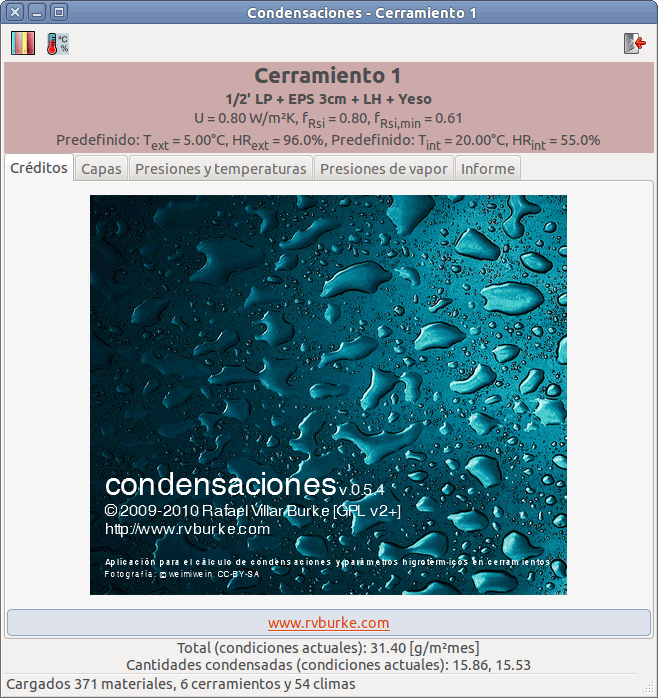
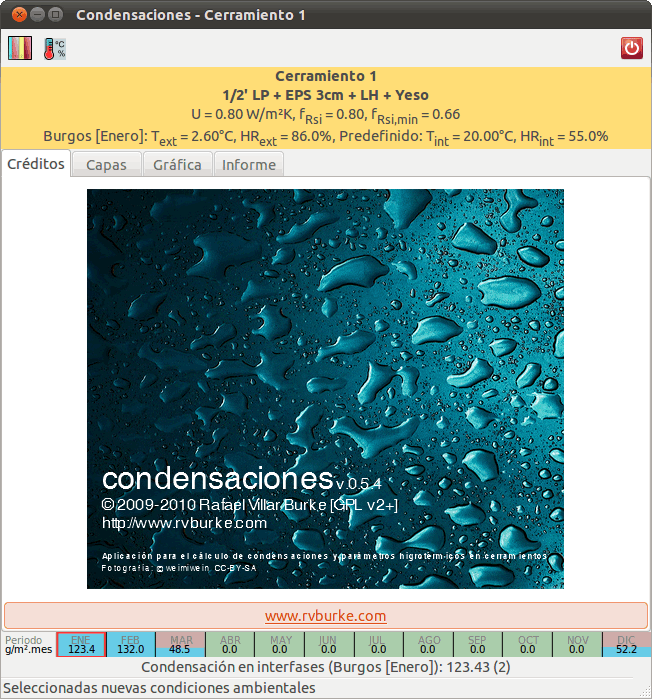
Actualiza documentación y pantallazos

diff --git a/docs/manual_usuario.rst b/docs/manual_usuario.rst
@@ -186,22 +186,9 @@ Se representa el cerramiento, con espesores geométricos de las capas y una supe
 
 La línea de temperaturas se dibuja en rojo, la de presiones de vapor en azul, y en negro se indica la presión de vapor de saturación. En caso de existir condensaciones, se indica la zona afectada mediante un relleno en color rojo entre las líneas de presiones.
 
+También se resaltan en rojo las interfases en las que existen condensaciones, tanto procedentes de condensación previa como actual.
+
 .. _ui_gvapor:
-
-Diagrama de presiones de vapor
-~~~~~~~~~~~~~~~~~~~~~~~~~~~~~~
-
-Se representa el cerramiento con espesores de aire equivalente de cada capa, superponiendo la gráfica de presiones de vapor en el interior del cerramiento.
-
-La línea de presiones de vapor efectiva en cada capa se representa en trazo azul y la presión de vapor de saturación en una línea negra más gruesa.
-
-En caso de condensaciones se indica en línea de trazos la línea de presiones de vapor en ausencia de condensaciones. Además, se resaltan con una línea gruesa en rojo las interfases en las que se producen las condensaciones.
-
-.. figure:: _static/pantallazos/ui_05_vapor.png
-   :align: center
-   :scale: 75%
-
-.. _ui_informe:
 
 Informe de resultados
 ~~~~~~~~~~~~~~~~~~~~~
@@ -212,8 +199,9 @@ El informe de resultados incluye la información necesaria para la comprobación
 - Condiciones de humedad y temperatura usadas en los cálculos.
 - Parámetros de cálculo de las distintas capas y de resistencia superficial.
 - Parámetros higrotérmicos del cerramiento compuesto.
-- Gráficas de temperatura y presión efectiva y de presiones efectivas y de saturación.
-- Comprobaciones para la existencia de condensaciones superficiales e intersticiales según CTE.
+- Gráfica de temperatura y presión efectiva y de presiones efectivas y de saturación.
+- Histograma de condensaciones acumuladas en todo el cerramiento para cada periodo.
+- Comprobaciones de la existencia de condensaciones superficiales e intersticiales según CTE.
 
 .. figure:: _static/pantallazos/ui_06_informe.png
    :align: center
@@ -231,6 +219,8 @@ Barra de resultados generales
 -----------------------------
 
 Esta zona recoge la cantidad total de vapor condensado (en g/m²mes) y su distribución en capas.
+
+También incluye una barra de condensaciones por periodos en la que se representa cada uno de ellos con una casilla de fondo verde si no existen condensaciones o en fondo rojo cuando existan. En los periodos con condensación se incluye el dato de la cantidad total acumulada y un nivel de condensados tomando como nivel máximo el mes más desfavorable.
 
 .. _ui_estado:
 
